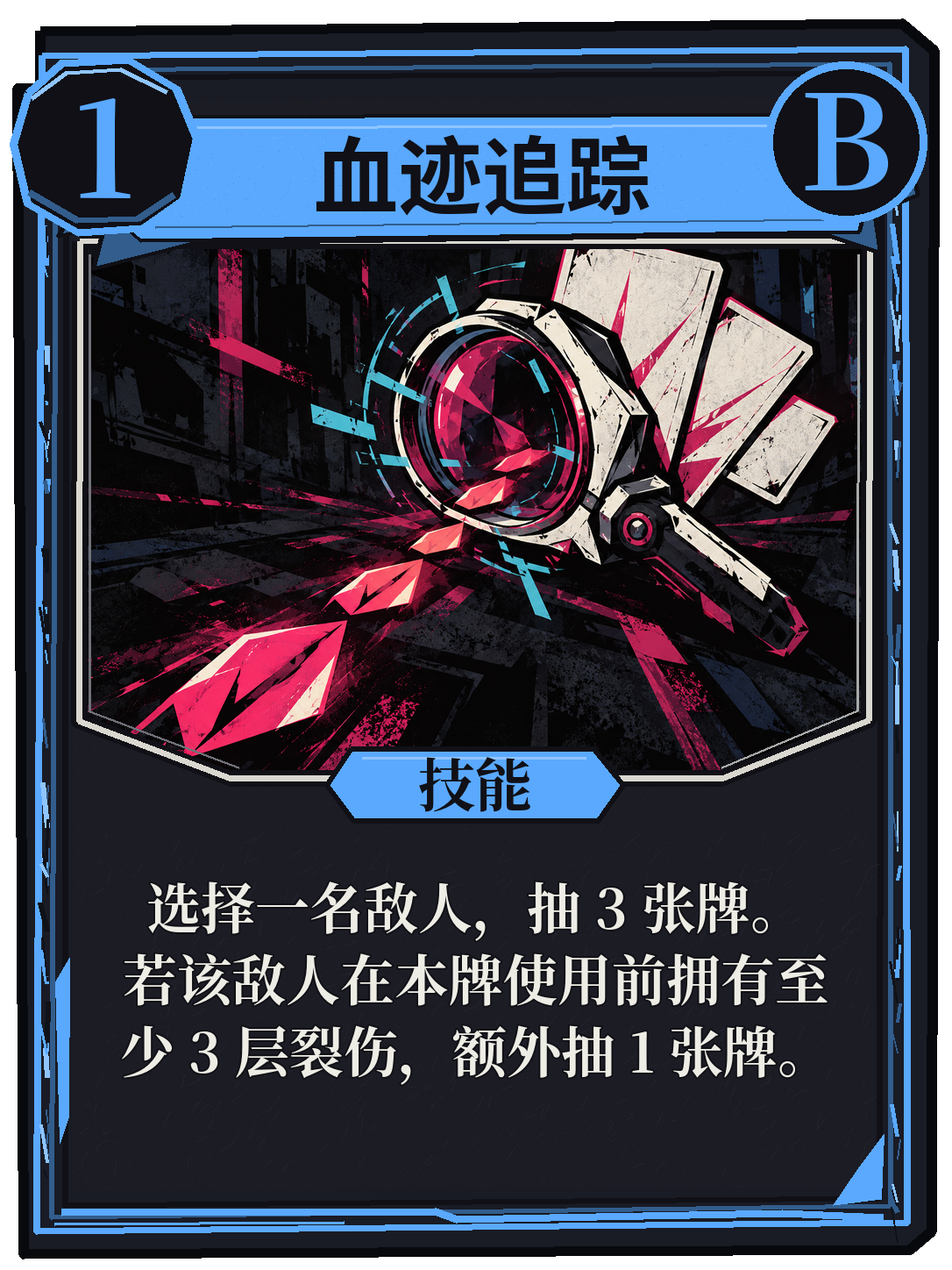
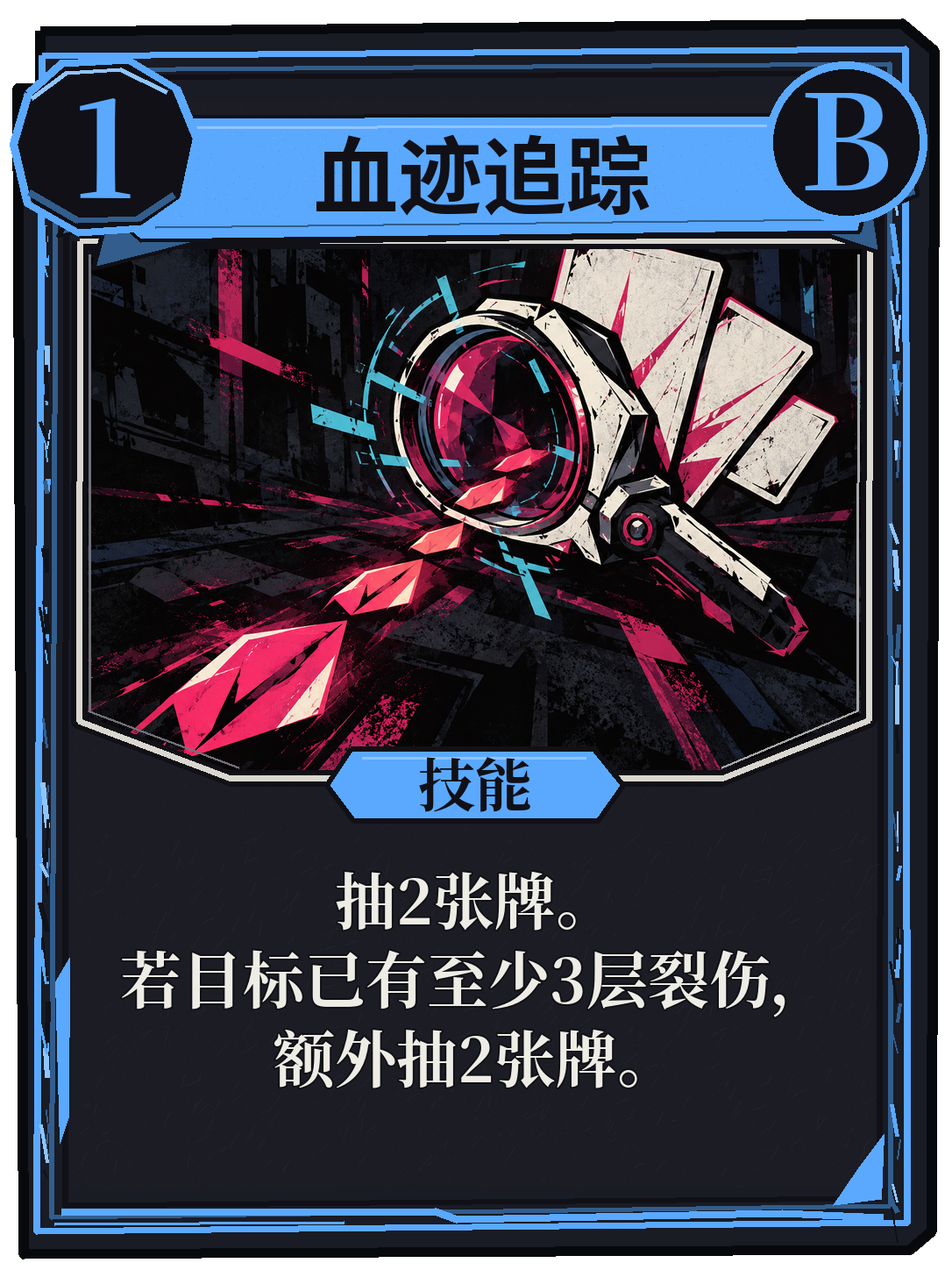
卡牌数值修改

Changed region(s): [[0.1215, 0.6837, 0.8812, 0.8702]]

diff --git a/tools/check_config.py b/tools/check_config.py
@@ -285,7 +285,7 @@ class Validator:
                     self.ref(effect.get("id"), buffs, "data/cards/cards.json", f"$[{index}].effects[{n}].id")
                 if effect.get("type") in ("damage", "draw", "ammo") and "amount" not in effect:
                     self.error("data/cards/cards.json", at + ".amount", "required field missing")
-                for key in ("amount", "hits", "rangedBonus", "bleedTriggers", "requiresBleed"):
+                for key in ("amount", "hits", "rangedBonus", "meleeBonus", "bleedTriggers", "requiresBleed"):
                     if key in effect and not integer(effect[key], -999 if key == "amount" and effect.get("id", effect.get("type")) == "strength" else 0):
                         self.error("data/cards/cards.json", at + "." + key, "expected finite integer in allowed range")
         self.ref(data["config.json"].get("defaultPlayerCharacterId"), data["player_characters.json"], "data/config.json", "$.defaultPlayerCharacterId")

diff --git a/tools/card_art/update_noren_rules.py b/tools/card_art/update_noren_rules.py
@@ -35,7 +35,8 @@ PREFERRED_LINES = {
     ],
     "noren_14": [
         "造成6点伤害。",
-        "近身技：施加1层虚弱。"
+        "近身技：改为造成9点伤害，",
+        "施加2层虚弱。"
     ],
     "noren_15": [
         "下一张攻击牌的",
@@ -103,6 +104,11 @@ PREFERRED_LINES = {
         "对所有敌人造成6点伤害，",
         "全部攻击结束后，",
         "对所有敌人施加3层裂伤。"
+    ],
+    "noren_39": [
+        "抽2张牌。",
+        "若目标已有至少3层裂伤，",
+        "额外抽2张牌。"
     ],
     "noren_40": [
         "本场战斗中，",

diff --git a/docs/卡牌与效果实现维护指南.md b/docs/卡牌与效果实现维护指南.md
@@ -1,5 +1,7 @@
 # 诺伦卡牌与效果实现维护指南
 
+2026-11-16修订14、39、44号的现行逐卡实现表。14号的 `meleeBonus` 加在攻击基础值上，实战和预览共用 `attack_hit_amount()`，随后才结算近战的虚弱。39号两项 `draw` 依次执行，第二项读取所选目标用牌前的裂伤层数。44号依 `exhaust=true` 消耗，携带回收协议时按该科技每回合首次消耗的规则处理。旧战斗快照继续使用冻结的卡定义。
+
 2026-11-08新增41固守掩体、42见招拆招、43干扰屏障，均B级1费非消耗技能，分别使用block14、block8→draw1、block7→weak2。前两张target=self，43号target=enemy；block默认给玩家，weak给选中活敌人。当前43牌，既有模型／预览／快照无需新字段，原40牌与初始牌不变。运行入口和测试隔离见[接入说明](开发接入说明.md#三张1费防御卡接口2026-11-08)，本轮实际验证见[修改记录](修改记录.md#2026-11-08-三张1费防御卡正式接入)。
 
 2026-10-27下次攻击增伤：膛压蓄积（每段+5）、重弹装填（每段+4）与弱点锁定（每段+6）均可同名／混合累加，未使用时跨回合保留，下一张成功打出的攻击牌一次消耗全部待用增伤。所有原首段增伤（含科技与旧高压枪机）统一改为对整张攻击牌的每段生效；技能、预览或因资源／目标无效而拒绝的攻击不消耗。仅在本场战斗内保留，新战斗重新初始化。
@@ -307,14 +309,14 @@ Buffs.clear(model, "weak", enemy_index)
 
 ## 通用效果执行器
 
-以下名字是 `effects[].type`，不是要额外调用的函数。除 `stance`、`power` 等使用 `value` 的效果外，数值通常读取 `amount`。`when` 可为 `melee`／`ranged`，省略则不限制；`requiresBleed` 是本效果的前置条件，当前用于39号在目标出牌前至少3裂伤时额外抽1张。
+以下名字是 `effects[].type`，不是要额外调用的函数。除 `stance`、`power` 等使用 `value` 的效果外，数值通常读取 `amount`。`when` 可为 `melee`／`ranged`，省略则不限制；`requiresBleed` 是本效果的前置条件，当前用于39号在目标出牌前至少3裂伤时额外抽2张。
 
 | 效果 | 对应状态或行为 | 必须保持的边界 |
 | --- | --- | --- |
 | `damage` | 对已确定的目标数组执行伤害；`hits` 默认 1 | 每段通过 `enemy_damage`，死亡提前停止；特殊参数见上节 |
 | `block` | 玩家 `block += amount` | 不等同于治疗，不改 `player_hp` |
 | `ammo` | `gain_ammo(amount)` | 与攻击普通耗弹／回弹分别处理 |
-| `energy` | 直接增加当前`energy`，不改变`energyPerTurn` | amount须有限正整数；整体前置验证，零费可在0能量使用，供能可洗回重用；回合开始重置 |
+| `energy` | 直接增加当前`energy`，不改变`energyPerTurn` | amount须有限正整数；整体前置验证，零费可在0能量使用，回合开始按基础值重置。44号因其自身 `exhaust=true` 进入消耗区 |
 | `draw` | `draw_cards(amount)`，记录抽到的 UID | 在现有手牌数上增加，可超过 5；正在使用的牌不能被抽回 |
 | `stance` | `change_stance(value)`，合并奖励抽牌 UID | `value` 仅支持两种形态和 toggle；顺序决定先攻击还是先切换 |
 | `weak` | 对活目标累加虚弱，最多 999 | 固定降低攻击伤害 25%，该敌人回合结束减 1 层 |
@@ -349,7 +351,7 @@ Buffs.clear(model, "weak", enemy_index)
 | `noren_11` | 稳住阵脚 | B／1 | `skill`／`stance` | 通用 | `block(amount=11)` → `ammo(amount=1, when="melee")` → `weak(amount=1, when="ranged")` | 弃牌区 |
 | `noren_12` | 拆卸弹药 | B／0 | `skill`／`self` | 通用 | `exhaust_hand()` → `ammo(amount=3)` | 弃牌区 |
 | `noren_13` | 重弹射击 | B／1 | `attack`／`enemy` | 爆发直伤流 | `damage(amount=10)` | 弃牌区 |
-| `noren_14` | 破势枪托 | B／1 | `attack`／`enemy` | 爆发直伤流 | `damage(amount=6)` → `weak(amount=1, when="melee")` | 弃牌区 |
+| `noren_14` | 破势枪托 | B／1 | `attack`／`enemy` | 爆发直伤流 | `damage(amount=6, meleeBonus=3)` → `weak(amount=2, when="melee")` | 弃牌区 |
 | `noren_15` | 膛压蓄积 | B／0 | `skill`／`self` | 爆发直伤流 | `next_damage(amount=5)` | 消耗区 |
 | `noren_18` | 重弹装填 | B／1 | `skill`／`self` | 爆发直伤流 | `ammo(amount=2)` → `next_damage(amount=4)` | 弃牌区 |
 | `noren_19` | 压制射击 | B／1 | `attack`／`enemy` | 爆发直伤流 | `damage(amount=8)` → `weak(amount=2)` | 弃牌区 |
@@ -362,7 +364,7 @@ Buffs.clear(model, "weak", enemy_index)
 | `noren_34` | 引伤标记 | B／0 | `skill`／`enemy` | 裂伤流 | `bleed(amount=3)` | 消耗区 |
 | `noren_35` | 双发速射 | B／1 | `attack`／`enemy` | 裂伤流 | `damage(amount=2, hits=3)` | 弃牌区 |
 | `noren_37` | 伤口追猎 | B／1 | `attack`／`enemy` | 裂伤流 | `damage(amount=6, bleedTriggers=2)` | 弃牌区 |
-| `noren_39` | 血迹追踪 | B／1 | `skill`／`enemy` | 裂伤流 | `draw(amount=3)` → `draw(amount=1, requiresBleed=3)` | 弃牌区 |
+| `noren_39` | 血迹追踪 | B／1 | `skill`／`enemy` | 裂伤流 | `draw(amount=2)` → `draw(amount=2, requiresBleed=3)` | 弃牌区 |
 | `noren_41` | 固守掩体 | B／1 | `skill`／`self` | 通用 | `block(amount=14)` | 弃牌区 |
 | `noren_42` | 见招拆招 | B／1 | `skill`／`self` | 通用 | `block(amount=8)` → `draw(amount=1)` | 弃牌区 |
 | `noren_43` | 干扰屏障 | B／1 | `skill`／`enemy` | 通用 | `block(amount=7)` → `weak(amount=2)` | 弃牌区 |
@@ -376,7 +378,7 @@ Buffs.clear(model, "weak", enemy_index)
 | `noren_30` | 加深伤口 | A／1 | `skill`／`enemy` | 裂伤流 | `bleed(amount=3, woundedMeleeAmount=6)` | 弃牌区 |
 | `noren_33` | 逆刃架势 | A／2 | `skill`／`self` | 裂伤流 | `block(amount=16)` → `parry(amount=1)` | 弃牌区 |
 | `noren_38` | 散射扫荡 | A／2 | `attack`／`all` | 裂伤流 | `damage(amount=6)` → `bleed(amount=3)` | 弃牌区 |
-| `noren_44` | 应急供能 | A／0 | `skill`／`self` | 通用 | `energy(amount=2)`；非消耗 | 弃牌区 |
+| `noren_44` | 应急供能 | A／0 | `skill`／`self` | 通用 | `energy(amount=2)`，`exhaust=true` | 消耗区 |
 | `noren_23` | 弱点瞄准 | S／1 | `power`／`self` | 爆发直伤流 | `power(value="ranged_mastery")` | 消耗区 |
 | `noren_26` | 终结弹 | S／3 | `attack`／`enemy` | 爆发直伤流 | `damage(amount=30, rangedBonus=14)` | 弃牌区 |
 | `noren_36` | 深度伤口 | S／1 | `power`／`self` | 裂伤流 | `power(value="persistent_bleed")` | 消耗区 |
@@ -608,7 +610,7 @@ godot --headless --path . res://tests/combat/rules/combat_tests.tscn
 - 费用恰好不足／恰好足够、叠加减费到0、普通弹药0／1／10；火力倾泻1／3／10弹对应2／4／11段且无选择框；旧快照额外耗弹0／上限／越界。
 - 同形态不重复发奖励、攻击后切换使用旧形态、切换减费跨回合与跨形态保留。
 - 逐段取整、格挡恰好耗尽、本体致死后不再裂伤、裂伤致死后不再追加段、新裂伤后置。
-- 处决恰好50%；追猎近远均2次裂伤、裂伤1层时第二次归零停止、持有深度伤口时不减层；血迹追踪裂伤2／3门槛与额外抽1；近战旧伤3／6施加分支。
+- 处决恰好50%；追猎近远均2次裂伤、裂伤1层时第二次归零停止、持有深度伤口时不减层；血迹追踪在2层裂伤时抽2张、3层时抽4张；近战旧伤3／6施加分支。
 - 弹反0／1／2／3、全额格挡仍可反击、多敌依次消耗、玩家与敌人同次归零的失败优先。
 - 新拆卸弹药无其他手牌时拒绝，可消耗另一张攻击／技能／能力牌；重复同名实例只移走指定UID；自身／非手牌／缺失选择原子失败。旧 `discard_attack`仍只允许攻击牌且保留原去向；重复能力扣费不叠加，抽牌不能抽回自身。
 - 开场前保存、开场后首回合打空、全消耗、抽弃牌都空、回收中抽牌、JSON 往返后再出牌。

diff --git a/docs/诺伦卡牌与控制台.md b/docs/诺伦卡牌与控制台.md
@@ -2,6 +2,8 @@
 
 ## 2026-11-08 新增零费供能与抽牌卡
 
+以下为11月8日接入值。11月16日起，44号使用后进入消耗区。
+
 44应急供能：A／0／技能，获得2点能量，非消耗；45瞬时演算：B／0／技能，抽2张牌，消耗。进入正式45牌目录、非C奖励池、黑市后续库存与控制台，初始牌仍10张。应急供能可在0能量时打出，允许超过基础3点；使用后普通弃牌，洗回可再次使用。下个玩家回合仍重置为每回合基础能量，未提高energyPerTurn。
 
 ## 2026-11-08 新增三张1费防御技能
@@ -20,7 +22,7 @@
 
 基础牌01—04（直击、护身、贴近、拉开距离）的完整定义保持不变；20张非基础牌提高数值，40号剖解经验改为近战攻击逐段施加裂伤。费用、品级、攻击段数和初始卡组不变，其他卡维持原值。新开正式战斗／演练使用新定义；进行中的旧战斗保留冻结卡表和旧能力行为，不覆盖正式存档。
 
-下表是当前卡表，2026-11-08新增牌与2026-10-27修订优先；下方2026-10-20及2026-10-19日期段保留当时修订记录，其数值以本节覆盖。数值仍为试玩配置，未宣称完成实战平衡。
+下表列出现行45张牌，已纳入2026-11-16的修订。各日期段记录当时的改动。数值仍为试玩配置，未宣称完成实战平衡。
 
 剖解经验：本场战斗中，近战形态每段攻击命中后，对命中的存活敌人施加1层裂伤；多段逐段、群攻逐目标生效，完全格挡也触发。远程攻击、弹反及技能直接施加裂伤不触发，同名能力不叠加，不受每回合首次限制。每段按“攻击本体→剖解经验施加1裂伤→该段显式裂伤触发”执行，因此近战伤口追猎可立即触发本段新增裂伤。
 
@@ -39,7 +41,7 @@
 | 11 | 稳住阵脚 | B／1 | 技能 | 获得 11 点格挡。近身技：获得 1 颗弹药。远程技：对一名敌人施加 1 层虚弱。 |
 | 12 | 拆卸弹药 | B／0 | 技能 | 消耗手中的另一张牌，获得 3 颗弹药。本牌进入弃牌堆。没有其他手牌时无法打出。 |
 | 13 | 重弹射击 | B／1 | 攻击 | 造成 10 点伤害。 |
-| 14 | 破势枪托 | B／1 | 攻击 | 造成 6 点伤害。近身技：施加 1 层虚弱。 |
+| 14 | 破势枪托 | B／1 | 攻击 | 造成6点基础伤害。近身技：改为造成9点基础伤害，施加2层虚弱。 |
 | 15 | 膛压蓄积 | B／0 | 技能 | 下一张攻击牌的每段基础伤害增加 5。可叠加，跨回合保留。消耗。 |
 | 16 | 后跳斩 | A／1 | 攻击 | 造成 9 点伤害。近身技：抽 2 张牌。 |
 | 17 | 枪口重击 | A／2 | 攻击 | 造成 16 点伤害。近身技：额外获得 2 颗弹药。 |
@@ -64,12 +66,12 @@
 | 36 | 深度伤口 | S／1 | 能力 | 本场战斗中，裂伤触发时不再减少层数。 |
 | 37 | 伤口追猎 | B／1 | 攻击 | 造成 6 点伤害，然后触发 2 次裂伤。近战与远程均生效；远程合计触发 2 次。 |
 | 38 | 散射扫荡 | A／2 | 攻击 | 对所有敌人造成 6 点伤害，全部攻击结束后，对所有敌人施加 3 层裂伤。 |
-| 39 | 血迹追踪 | B／1 | 技能 | 选择一名敌人，抽 3 张牌。若该敌人在本牌使用前拥有至少 3 层裂伤，额外抽 1 张牌。 |
+| 39 | 血迹追踪 | B／1 | 技能 | 选择一名存活敌人，抽2张牌。若目标在用牌前已有至少3层裂伤，额外抽2张牌。 |
 | 40 | 剖解经验 | S／1 | 能力 | 本场战斗中，近战形态每段攻击命中后，对命中的敌人施加 1 层裂伤。多段攻击逐段生效。 |
 | 41 | 固守掩体 | B／1 | 技能 | 获得14点格挡。 |
 | 42 | 见招拆招 | B／1 | 技能 | 获得8点格挡，抽1张牌。 |
 | 43 | 干扰屏障 | B／1 | 技能 | 获得7点格挡，对一名敌人施加2层虚弱。 |
-| 44 | 应急供能 | A／0 | 技能 | 获得2点能量。非消耗。 |
+| 44 | 应急供能 | A／0 | 技能 | 获得2点能量。消耗。 |
 | 45 | 瞬时演算 | B／0 | 技能 | 抽2张牌。消耗。 |
 
 适用版本：0.4.0-noren-cards，卡牌规则于2026-10-25更新（旧日期记录保留）。来源为工程同级的《卡牌和特殊效果设计/诺伦角色卡牌完整卡表.md》。45 种卡已接入可执行效果；数值仍是首轮试玩版本，未宣称完成实战平衡。

diff --git a/docs/开发接入说明.md b/docs/开发接入说明.md
@@ -1,10 +1,18 @@
 # R1 卡牌战斗开发接入说明
 
+## 三张卡的定义与卡面绑定（2026-11-16）
+
+正式定义位于 `data/cards/cards.json`。14号使用 `damage(amount=6, meleeBonus=3)` 和 `weak(amount=2, when="melee")`，39号使用 `draw(amount=2)` 和 `draw(amount=2, requiresBleed=3)`，44号使用 `energy(amount=2)` 并设 `exhaust=true`。模型和动态预览共用 `attack_hit_amount()`。近身加成在形态倍率及后续减伤前计算，远程按原倍率处理。存档继续保存原战斗的冻结卡表，新进入的战斗加载更新后的定义。
+
+三张PNG沿用 v3 原插画与卡框。修改定义时同步 `data/cards/card_faces_no_character.json` 中对应的完整定义。`card_face_art.gd` 会核对完整定义，旧快照与新图绑定不符时走数据排版，显示该场实际规则。
+
 ## 两张零费资源卡接口（2026-11-08）
+
+11月8日接入时的定义如下。11月16日已更新44号的消耗标记及配套卡面。
 
 正式新增`noren_44`应急供能（A／0／skill／self，`energy(2)`、非消耗）与`noren_45`瞬时演算（B／0／skill／self，`draw(2)`、消耗）。现45种、非C池41种、品级4／27／10／4，初始10张与奖励品级概率保持原样，已生成奖励／库存不重抽。卡面位于现有v3目录`noren_44.png`与`noren_45.png`，像素直接沿用候选v2；`card_faces_no_character.json`绑定完整正式定义。可移植来源记录见`art_sources/resource_cards_v2/`。
 
-`energy`是新增即时卡牌效果，amount必须为有限正整数；`CombatModel.valid_energy_effect()`在整张牌付费／移牌前与`Game.valid_frozen_card()`共用。执行只加当前能量，允许超过每回合基础值；出牌后去向仍由type/exhaust决定，故44号普通弃牌、可洗回重复获得2能量。每回合恢复仍读取原`energyPerTurn`。`card_preview.gd`在独立副本上处理energy并给出结构化行，规则数字与悬停摘要同步；现有EnergyHUD直接显示如`5 / 3`的超频状态，无视图重复结算。
+`energy`是新增即时卡牌效果，amount必须为有限正整数；`CombatModel.valid_energy_effect()`在整张牌付费／移牌前与`Game.valid_frozen_card()`共用。执行只加当前能量，允许超过每回合基础值；出牌后去向仍由type/exhaust决定，44号现行定义带有 `exhaust=true`，获得2能量后进入消耗区。更新前冻结的非消耗版本仍进入弃牌区。每回合恢复仍读取原`energyPerTurn`。`card_preview.gd`在独立副本上处理energy并给出结构化行，规则数字与悬停摘要同步；现有EnergyHUD直接显示如`5 / 3`的超频状态，无视图重复结算。
 
 存档schema仍为2，不新增字段。`valid_noren_state()`仅当冻结快照的实际instances含有效energy卡时放开旧能量上界，仍要求能量为有限非负整数、弹药不超上限；只有今日目录含44或牌组无energy实例时继续遵守“基础能量＋本回合科技”旧上界。旧43牌冻结目录保持，不由恢复过程补入新卡。参考JSON schema同步energy类型和amount要求。
 

diff --git a/docs/维护文档.md b/docs/维护文档.md
@@ -925,7 +925,9 @@ QA 都隔离缓存目录并关闭自动保存，不写用户正式存档。
 
 ## 存档维护与恢复
 
-2026-11-08两张零费资源卡：44号应急供能可重复洗回，当前能量能从3增至5并继续累加，下一玩家回合仍重置为`energyPerTurn`。`valid_frozen_card()`与模型共享energy amount有限正整数校验；`valid_noren_state()`仅在冻结instances确实包含有效energy卡时允许超出旧“基础能量＋本回合科技”上界，能量有限非负整数与弹药上限仍检查。无energy卡实例的旧牌组保留旧上界；今日全目录新增44不会放宽旧牌组。schemaVersion保持2，当前能量仍存既有norenState.energy，读旧冻结卡表不注入44／45。接口与专项见[资源卡接入](开发接入说明.md#两张零费资源卡接口2026-11-08)。
+2026-11-16起，44号应急供能打出后获得2能量并进入消耗区。此前冻结的旧战斗仍允许将其洗回。
+
+2026-11-08接入记录：当时的44号应急供能可重复洗回，当前能量能从3增至5并继续累加，下一玩家回合仍重置为`energyPerTurn`。`valid_frozen_card()`与模型共享energy amount有限正整数校验；`valid_noren_state()`仅在冻结instances确实包含有效energy卡时允许超出旧“基础能量＋本回合科技”上界，能量有限非负整数与弹药上限仍检查。无energy卡实例的旧牌组保留旧上界；今日全目录新增44不会放宽旧牌组。schemaVersion保持2，当前能量仍存既有norenState.energy，读旧冻结卡表不注入44／45。接口与专项见[资源卡接入](开发接入说明.md#两张零费资源卡接口2026-11-08)。
 
 2026-10-26控制台页面版本同步：`main.open_card_console()`记录打开时的`Game.revision`；关闭时，成功命令改变版本则刷新非战斗页，奖励页复用`refresh_reward()`，战斗页仍调用`resume_console_combat()`保留实时战况。查询／拒绝的命令不触发页面重建。`swap_view()`清理控制台时显式禁用这次刷新，避免嵌套换页；不改变存档格式、命令事务或剧情推进规则。
 

diff --git a/docs/README.md b/docs/README.md
@@ -1,5 +1,7 @@
 # 午夜委托文档索引
 
+2026-11-16桌面工程调整破势枪托、血迹追踪和应急供能。新战斗使用新版，进行中的战斗继续使用该场冻结的卡表。玩家规则见[三张牌的现行效果](游戏规则.md#破势枪托血迹追踪与应急供能2026-11-16)，文件与卡面变更见[修改记录](修改记录.md#2026-11-16-三张诺伦卡牌调整)。
+
 2026-11-10已将六项新科技及专属图标、战斗规则、商场／档案分页、测试和说明同步到本地game-demo；43个改动文件中42个与桌面源逐字节一致，修改记录保留各自历史。目标隔离导入及10套无窗口1805项通过，配置检查无错误，正式用户目录10文件集合与哈希未变。未提交／推送、未更新发行包，未重跑目标GPU；见[同步记录](修改记录.md#2026-11-10-六项科技同步至本地game-demo)与[验证明细](../artifacts/qa/technology-sync-2026-11-10/verification.json)。
 
 2026-11-10桌面工程接入六项新科技：应急力场、折叠弹匣、净化滤芯（清除自身所有负面／冷却999）、相位镀层、回收协议、反击校准器。现为十二项正式科技，商场各125、商场与档案两页六项，四槽上限不变，六张专属透明图标与被动本回合状态同步接入。新模型82项、UI／交易／图标专项、两尺寸GPU界面及实际战场通过范围与历史失败见[本轮记录](修改记录.md#2026-11-10-六项战斗科技与十二项分页目录)；规则见[科技交易](游戏规则.md#沃斯商场科技交易)，接口见[科技扩展](开发接入说明.md#六项战斗科技扩展2026-11-10)。证据保留任务起始日期`artifacts/qa/technology-expansion-2026-11-09/`。未同步game-demo、未重建发行包；物理输入、真人平衡与跨平台未验收。 最终17套无窗口5698项、两尺寸GPU756项及Python24项通过，正式用户目录10文件集合与哈希未变；汇总见[验证明细](../artifacts/qa/technology-expansion-2026-11-09/verification.json)。

diff --git a/docs/修改记录.md b/docs/修改记录.md
@@ -1,6 +1,14 @@
 # 午夜委托项目修改记录
 
 
+## 2026-11-16 三张诺伦卡牌调整
+
+桌面工程更新14号破势枪托、39号血迹追踪和44号应急供能。破势枪托的基础伤害为6，近战时改为9，随后施加2层虚弱。血迹追踪的基础抽牌由3张改为2张，目标已有至少3层裂伤时额外抽牌由1张改为2张。应急供能仍为0费并立即获得2点能量，使用后进入消耗区。更新前已开始的战斗保留该场冻结定义，旧版应急供能仍可从弃牌堆洗回。
+
+三张卡面的 v3 规则区按正式文案重排，排版工具校验文字完整及边界，并逐像素核对规则区外的插画、边框和透明度。已目视检查规则区裁片和缩小整卡，正式卡面绑定已与当前45张卡的完整定义逐项对照。详见[玩家卡表](诺伦卡牌与控制台.md)和[开发接入说明](开发接入说明.md#三张卡的定义与卡面绑定2026-11-16)。
+
+已同步到本地 game-demo。用目标工程的隔离副本验证，Godot 4.7.2 的六套无窗口回归共 4188 项通过，1280×800 资源卡图形回归 24 项通过。另有 24 项 Python 配置工具测试通过，正式配置检查 0 错误。火力倾泻的定义和 PNG 与修改前一致。见[本地验证记录](../artifacts/qa/card-balance-2026-11-16/verification.json)。
+
 ## 2026-11-13 第二周通关战报
 
 桌面工程在结束诺斯奖励后展示本局剩余生命、携带科技、击败的 Boss、按份数汇总的最终卡组及最终选卡。战报只读，玩家可从主菜单继续查看。第一周仍提供进入第二周的入口。详见[游戏流程](游戏流程与路由.md#第二周通关战报2026-11-13)。

diff --git a/docs/卡面制作与验收规范.md b/docs/卡面制作与验收规范.md
@@ -1,5 +1,7 @@
 # 卡面固定排版与正式验收规范
 
+2026-11-16更新14号破势枪托、39号血迹追踪、44号应急供能的规则区。三张均以工程当前 `cards.json` 的 `cardText` 排版，并在 `data/cards/card_faces_no_character.json` 绑定完整定义。44号11月8日的候选图和接入哈希对应当时的非消耗版本。
+
 2026-11-08两张零费资源卡正式接入为44应急供能（0费A，2能量，非消耗）与45瞬时演算（0费B，抽2牌，消耗），总目录45张。PNG沿用候选v2并启用mipmap，完整正式定义绑定与像素哈希见工程内`art_sources/resource_cards_v2/integration.json`；与桌面制作目录的生成阶段manifest分开记录。用户明确授权接入和同步本地game-demo，最终视觉认可／真人平衡验收独立记录。
 
 2026-11-08新增[三张1费防御卡制作包](../../卡牌游戏美术资源/卡牌/一费防御新卡_20261108_v1/README.txt)：固守掩体、见招拆招、干扰屏障，沿用现用无人物v3模板。先以工程外候选交付，随后按用户“加入游戏中”正式注册为`noren_41`—`noren_43`，现为43张。正式规则源为工程`cards.json`；该包`candidate_cards.json`、manifest及ZIP保留生成阶段的冻结状态，后续接入另见`runtime_integration.json`与[本轮验证](../artifacts/qa/defense-cards-2026-11-08/verification.json)。原PNG像素不变，已做两尺寸实际牌库／战斗视图检查；未做实战平衡或物理输入验收。用户接入授权与最终视觉认可分开记录，后者保持pending。
